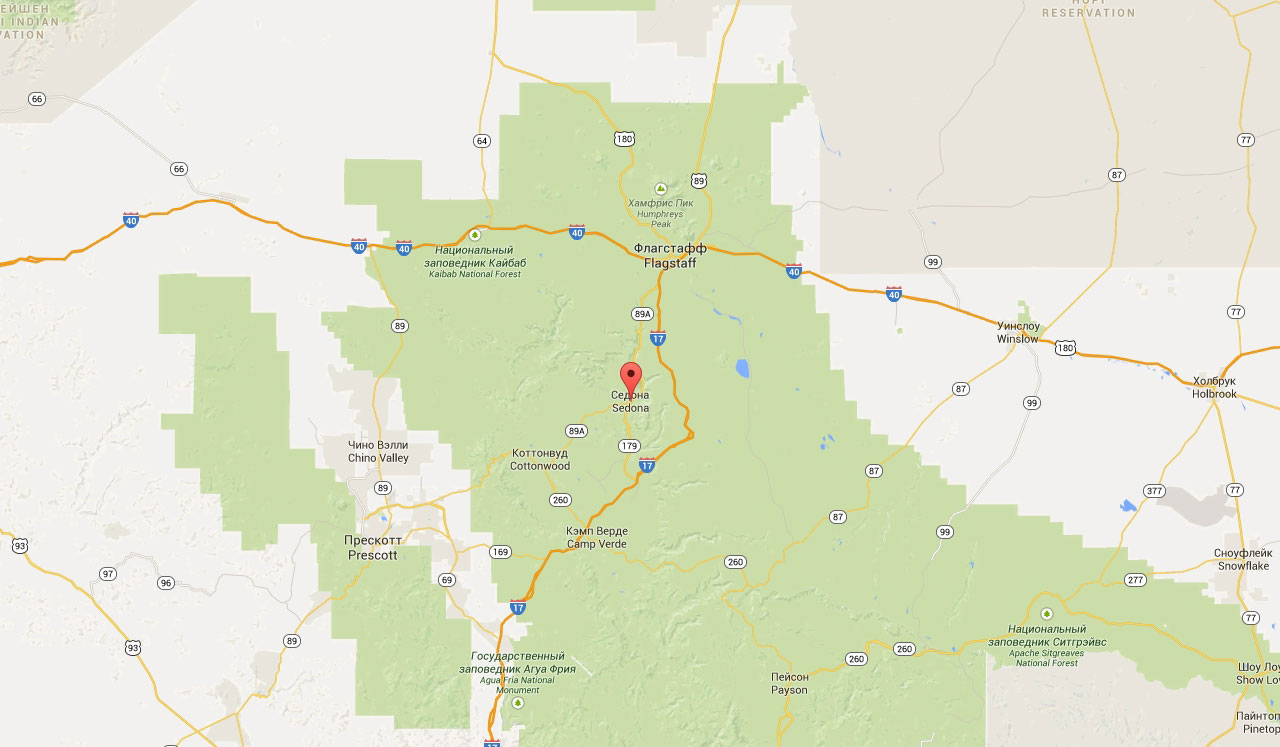
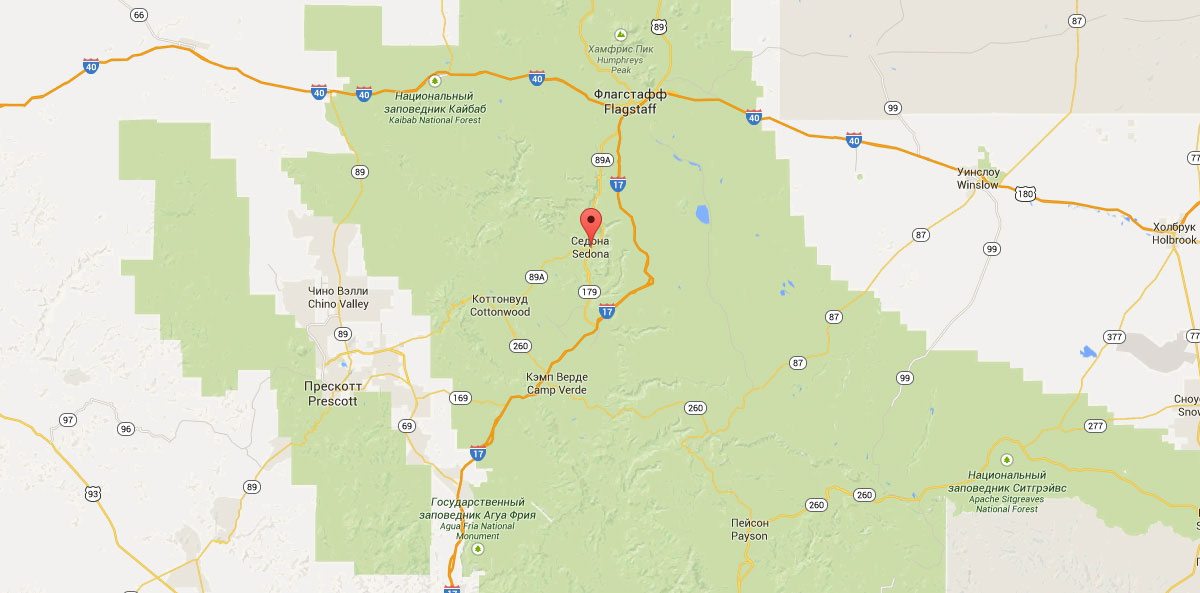
Низ главной страницы.

diff --git a/css/style.css b/css/style.css
@@ -132,10 +132,6 @@ body {
   margin: 0;
 }
 
-.findhotel {
-  box-sizing: border-box;
-}
-
 .features-item p{
   font-size: 14px;
   line-height: 21px;
@@ -145,40 +141,10 @@ body {
   color: #000000;
 }
 
-.findhotel {
-  display: flex;
-  flex-direction: column;
-  justify-content: flex-start;
-  align-items: center;
-  box-sizing: border-box;
-}
-
 .findhotel-intro {
- text-align: center;
- text-transform: uppercase;
- padding: 40px 0 43px;
-}
-
-.findhotel-header {
-  width: 568px;
-  background-color: #766357;
   text-align: center;
-  padding: 15px 0 11px;
-  margin: 0;
-  box-sizing: border-box;
-}
-
-.findhotel a {
-  font-size: 21px;
-  line-height: 26px;
-  font-weight: 700;
-  color: #ffffff;
   text-transform: uppercase;
-  text-decoration: none;
-  text-align: center;
-  background-color: #766357;
-  padding: 0;
-  margin: 0;
+  padding: 40px 0 43px;
 }
 
 .findhotel-intro h3 {
@@ -198,11 +164,39 @@ body {
   margin: 0;
 }
 
+.findhotel-header {
+  width: 568px;
+  background-color: #766357;
+  text-align: center;
+  padding: 30px 0;
+  margin: 0 auto;
+  box-sizing: border-box;
+}
+
+.findhotel-header a {
+  font-size: 21px;
+  line-height: 26px;
+  font-weight: 700;
+  color: #ffffff;
+  text-transform: uppercase;
+  text-decoration: none;
+  text-align: center;
+  padding: 0;
+  margin: 0;
+}
+
+.findhotel {
+  position: relative;
+}
+
 .findhotel-form {
+  position: absolute;
+  left: 50%;
+  margin-left: -284px;
   width: 568px;
   padding: 55px;
-  background-color: rgba(100, 0, 255, 0.5);
   box-sizing: border-box;
+  background-color: rgba(100, 0, 255, 0.5);
 }
 
 .main-footer {
@@ -294,10 +288,27 @@ body {
   align-items: center;
 }
 
+.hotel-sorted-item h1,
+.hotel-sorted-header h3 {
+  font-size: 21px;
+  line-height: 26px;
+  font-weight: 700;
+  color: #000000;
+  text-transform: uppercase;
+}
+
 .hotel-sorted-header h3 {
   width: 163px;
 }
 
+.hotel-sorted-header h4 {
+  font-size: 12px;
+  line-height: 18px;
+  font-weight: 400;
+  color: #000000;
+  text-transform: uppercase;
+  width: 116px;
+}
 
 .hotel-sorted-sortbyrole {
   display: flex;
@@ -309,21 +320,4 @@ body {
   list-style: none;
   text-decoration: none;
   text-transform: uppercase;
-}
-
-.hotel-sorted-item h1, .hotel-sorted-header h3 {
-  font-size: 21px;
-  line-height: 26px;
-  font-weight: 700;
-  color: #000000;
-  text-transform: uppercase;
-}
-
-.hotel-sorted-header h4 {
-  font-size: 12px;
-  line-height: 18px;
-  font-weight: 400;
-  color: #000000;
-  text-transform: uppercase;
-  width: 116px;
 }

diff --git a/index.html b/index.html
@@ -114,11 +114,12 @@
             и мы покажем вам лучшие предложения гостиниц в Седоне
           </p>
         </div>
-        <div class="findhotel-header">
-          <h3>
-            <a href="#">Поиск гостиницы в Седоне</a>
-          </h3>
-        </div>
+        <h3 class="findhotel-header">
+          <a href="#">Поиск гостиницы в Седоне</a>
+        </h3>
+        <section class="findhotel-map">
+          <img src="img/map.jpg" width="1200px" height="593px" alt="Карта Седоны">
+        </section>
         <form class="findhotel-form" action="index.html" method="get">
           <div class="findhotel-option">
             <label for="arrival-date">Дата заезда:</label>
